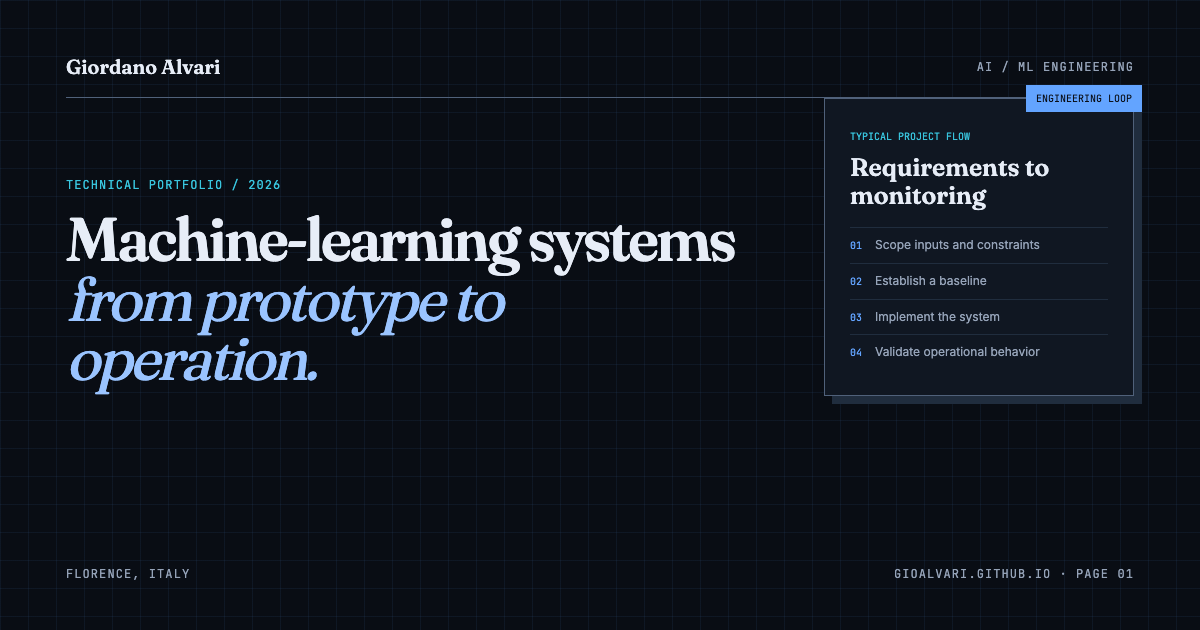
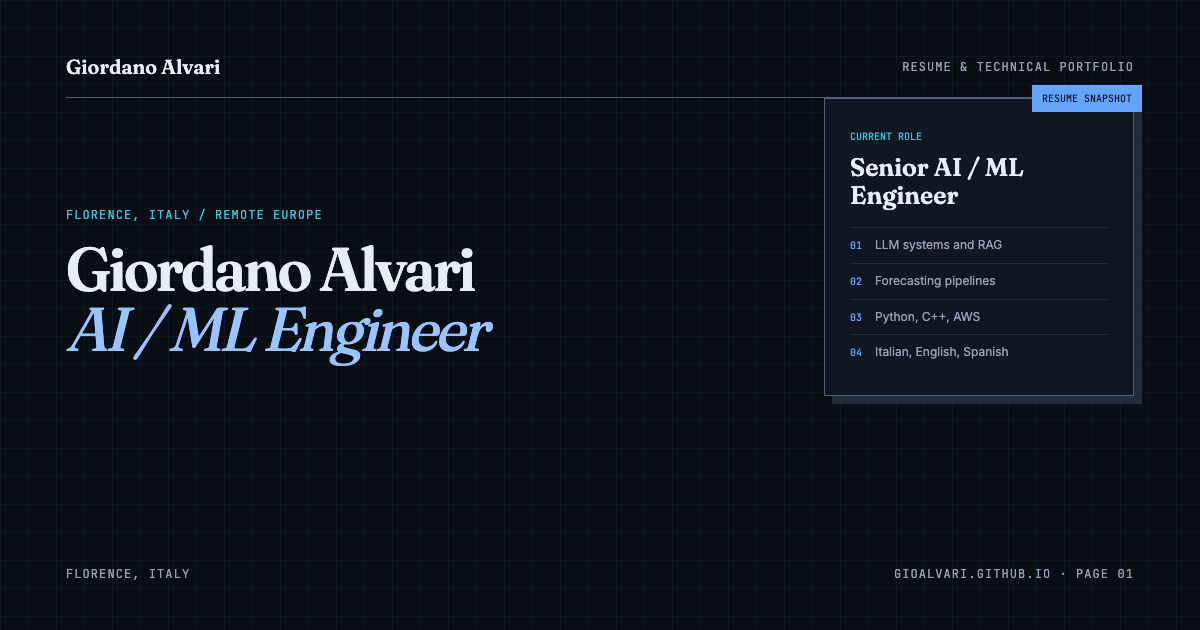
Make resume identity explicit in hero

diff --git a/style.css b/style.css
@@ -100,7 +100,7 @@ a:hover { color: var(--accent); }
 }
 
 .wordmark { color: var(--ink); text-decoration: none; display: flex; align-items: baseline; gap: .8rem; }
-.wordmark-name { font: 600 1.05rem/1 var(--serif); }
+.wordmark-name { font: 600 1.2rem/1 var(--serif); }
 .wordmark-edition { color: var(--ink-soft); font: .61rem/1 var(--mono); text-transform: uppercase; letter-spacing: .08em; }
 .site-header ul { list-style: none; display: flex; gap: clamp(.8rem, 3vw, 2rem); margin: 0; padding: 0; }
 .site-header li { display: flex; align-items: center; }
@@ -156,12 +156,13 @@ a:hover { color: var(--accent); }
 }
 .folio span { color: var(--rule); padding-inline: .35rem; }
 .hero h1 {
-  max-width: 13ch;
+  max-width: 15ch;
   margin: 1.4rem 0 1.8rem;
-  font: 600 clamp(3rem, 6.7vw, 5.65rem)/.98 var(--serif);
+  font: 600 clamp(3rem, 6.4vw, 5.45rem)/.98 var(--serif);
   letter-spacing: -.045em;
   text-wrap: balance;
 }
+.hero-name { color: var(--ink); }
 .hero h1 em {
   color: transparent;
   font-weight: 400;
@@ -174,7 +175,7 @@ a:hover { color: var(--accent); }
 .hero-links a { font: .69rem/1.4 var(--mono); text-transform: uppercase; letter-spacing: .04em; }
 .margin-note { max-width: 31rem; margin: 3rem 0 0; padding: .55rem 0 .55rem 1rem; border-left: 2px solid var(--accent); color: var(--accent-dark); font: .77rem/1.65 var(--mono); transform: rotate(-.45deg); }
 
-.method-card {
+.resume-card {
   --sheet-x: 50%;
   --sheet-y: 50%;
   position: relative;
@@ -184,12 +185,9 @@ a:hover { color: var(--accent); }
   box-shadow:
     .6rem .6rem 0 color-mix(in srgb, var(--rule-soft) 65%, transparent),
     0 1.2rem 4rem color-mix(in srgb, var(--accent) 8%, transparent);
-  transition: transform .2s ease-out, border-color .2s ease;
+  transition: border-color .2s ease, box-shadow .2s ease;
 }
-.has-motion .method-card {
-  transform: perspective(900px) rotateX(var(--card-rotate-x, 0deg)) rotateY(var(--card-rotate-y, 0deg));
-}
-.method-card::before, .experiment-sheet::before {
+.resume-card::before, .experiment-sheet::before {
   content: "";
   position: absolute;
   inset: 0;
@@ -199,9 +197,14 @@ a:hover { color: var(--accent); }
   background: radial-gradient(24rem circle at var(--sheet-x) var(--sheet-y), color-mix(in srgb, var(--teal) 8%, transparent), transparent 62%);
   transition: opacity .25s ease;
 }
-.method-card:hover::before, .experiment-sheet:hover::before { opacity: 1; }
-.method-card:hover { border-color: var(--accent); }
-.method-card > *, .experiment-sheet > * { position: relative; z-index: 1; }
+.resume-card:hover::before, .experiment-sheet:hover::before { opacity: 1; }
+.resume-card:hover {
+  border-color: var(--accent);
+  box-shadow:
+    .6rem .6rem 0 color-mix(in srgb, var(--accent) 16%, transparent),
+    0 1.4rem 4.5rem color-mix(in srgb, var(--accent) 12%, transparent);
+}
+.resume-card > *, .experiment-sheet > * { position: relative; z-index: 1; }
 .case-tab, .sheet-tab {
   position: absolute;
   right: -.55rem;
@@ -214,14 +217,15 @@ a:hover { color: var(--accent); }
   text-transform: uppercase;
   transform: rotate(1.5deg);
 }
-.method-heading { padding-bottom: 1.25rem; border-bottom: 1px solid var(--rule-soft); }
-.method-heading h2 { margin: .45rem 0 0; font: 600 1.7rem/1.15 var(--serif); }
-.method-card ol { list-style: none; margin: 0; padding: 0; }
-.method-card li { display: grid; grid-template-columns: 2.2rem 1fr; gap: 1rem; padding: 1rem 0; border-bottom: 1px solid var(--rule-soft); }
-.method-card li > span { padding-top: .25rem; color: var(--accent); font: .63rem/1 var(--mono); }
-.method-card strong { display: block; font: 600 1rem/1.2 var(--serif); }
-.method-card small { display: block; margin-top: .25rem; color: var(--ink-soft); font-size: .76rem; line-height: 1.5; }
-.method-loop { margin: 1.2rem 0 0; color: var(--ink-soft); font: .62rem/1.5 var(--mono); text-transform: uppercase; letter-spacing: .05em; }
+.resume-heading { padding-bottom: 1.25rem; border-bottom: 1px solid var(--rule-soft); }
+.resume-heading h2 { margin: .45rem 0 .35rem; font: 600 1.75rem/1.12 var(--serif); }
+.resume-heading > p:last-child { margin: 0; color: var(--ink-soft); font-size: .8rem; }
+.resume-card dl { margin: 0; }
+.resume-card dl div { display: grid; grid-template-columns: 6rem 1fr; gap: 1rem; padding: .9rem 0; border-bottom: 1px solid var(--rule-soft); }
+.resume-card dt { color: var(--accent); font: .61rem/1.5 var(--mono); text-transform: uppercase; }
+.resume-card dd { margin: 0; color: var(--ink-soft); font-size: .77rem; line-height: 1.5; }
+.resume-download { display: flex; justify-content: space-between; margin-top: 1.25rem; color: var(--ink); font: .69rem/1.5 var(--mono); text-decoration: none; text-transform: uppercase; letter-spacing: .04em; }
+.resume-download:hover { color: var(--accent); }
 .hero-footer { grid-column: 1 / -1; display: flex; justify-content: space-between; padding-top: 1.4rem; border-top: 1px solid var(--rule-soft); color: var(--ink-soft); font: .58rem/1 var(--mono); text-transform: uppercase; letter-spacing: .08em; }
 
 .chapter {
@@ -359,7 +363,7 @@ a:hover { color: var(--accent); }
 
 @media (max-width: 54rem) {
   .hero { grid-template-columns: 1fr; min-height: auto; }
-  .method-card { max-width: 38rem; }
+  .resume-card { max-width: 38rem; }
   .chapter-header { grid-template-columns: 3rem 1fr; }
   .chapter-header > p { grid-column: 2; }
   .work-entry { grid-template-columns: 5rem 1fr; }
@@ -399,7 +403,7 @@ a:hover { color: var(--accent); }
   body { font-size: 11pt; background: #fff; }
   .site-header, .reading-progress, .skip, .site-footer { display: none; }
   .hero { min-height: auto; display: block; }
-  .method-card { margin-top: 2rem; box-shadow: none; }
+  .resume-card { margin-top: 2rem; box-shadow: none; }
   .chapter { padding-block: 1.5rem; }
   .experiment-sheet, .project-small, .work-entry { break-inside: avoid; }
   .contact-sheet { color: #000; background: #fff; border-top: 1px solid #888; }
@@ -420,5 +424,5 @@ a:hover { color: var(--accent); }
   html { scroll-behavior: auto; }
   *, *::before, *::after { scroll-behavior: auto !important; transition: none !important; animation: none !important; }
   .has-motion .reveal { opacity: 1; transform: none; }
-  .method-card, .experiment-sheet, .work-entry { transform: none !important; }
+  .resume-card, .experiment-sheet, .work-entry { transform: none !important; }
 }

diff --git a/index.html b/index.html
@@ -3,7 +3,7 @@
 <head>
 <meta charset="utf-8">
 <meta name="viewport" content="width=device-width, initial-scale=1">
-<title>Giordano Alvari — AI / ML Engineer</title>
+<title>Giordano Alvari — AI / ML Engineer | Resume &amp; Portfolio</title>
 <meta name="description" content="AI and Machine Learning Engineer working on LLM systems, forecasting and applied machine learning. Based in Florence, available remotely across Europe.">
 <meta name="author" content="Giordano Alvari">
 <meta name="color-scheme" content="dark light">
@@ -12,7 +12,7 @@
 <link rel="canonical" href="https://gioalvari.github.io/">
 
 <meta property="og:type" content="profile">
-<meta property="og:title" content="Giordano Alvari — AI / ML Engineer">
+<meta property="og:title" content="Giordano Alvari — AI / ML Engineer | Resume &amp; Portfolio">
 <meta property="og:description" content="LLM systems, forecasting and applied machine learning — built with careful evaluation and practical engineering.">
 <meta property="og:url" content="https://gioalvari.github.io/">
 <meta property="og:image" content="https://gioalvari.github.io/og-2026-09.png">
@@ -65,7 +65,7 @@
   <nav class="wrap" aria-label="Primary">
     <a class="wordmark" href="#top" aria-label="Giordano Alvari — home">
       <span class="wordmark-name">Giordano Alvari</span>
-      <span class="wordmark-edition">AI / ML engineering</span>
+      <span class="wordmark-edition">Resume &amp; technical portfolio</span>
     </a>
     <ul>
       <li><a href="#practice">Practice</a></li>
@@ -80,12 +80,12 @@
 <main id="main">
   <section class="hero wrap" id="top">
     <div class="hero-copy">
-      <p class="folio">Technical portfolio <span>/</span> 2026</p>
-      <h1>Machine-learning systems<br><em>from prototype to operation.</em></h1>
+      <p class="folio">Resume &amp; technical portfolio <span>/</span> Florence, Italy</p>
+      <h1><span class="hero-name">Giordano Alvari</span><br><em>AI / ML Engineer</em></h1>
       <p class="lead">
         I design and implement LLM applications, retrieval systems and forecasting pipelines.
-        My work covers evaluation, APIs, deployment, observability and the data workflows around
-        the model.
+        My work covers backend services, evaluation, deployment, observability and the data
+        workflows around the model.
       </p>
       <ul class="hero-links">
         <li><a href="mailto:giordano.alvari@gmail.com">Email <span aria-hidden="true">↗</span></a></li>
@@ -93,22 +93,23 @@
         <li><a href="https://github.com/gioalvari" rel="me">GitHub <span aria-hidden="true">↗</span></a></li>
         <li><a href="giordano-alvari-cv.pdf">CV <span aria-hidden="true">↓</span></a></li>
       </ul>
-      <p class="margin-note">Current focus: LLM workflow evaluation, uncertainty-aware forecasting and reliable deployment.</p>
+      <p class="margin-note">Currently working on applied LLM systems and forecasting at Enel.</p>
     </div>
 
-    <aside class="method-card" aria-labelledby="method-title">
-      <span class="case-tab">Engineering loop</span>
-      <div class="method-heading">
-        <p class="kicker">Typical project flow</p>
-        <h2 id="method-title">From requirements to monitoring</h2>
+    <aside class="resume-card" aria-labelledby="resume-title">
+      <span class="case-tab">Resume snapshot</span>
+      <div class="resume-heading">
+        <p class="kicker">Current role</p>
+        <h2 id="resume-title">Senior AI / ML Engineer</h2>
+        <p>Enel · Florence / remote Europe</p>
       </div>
-      <ol>
-        <li><span>01</span><div><strong>Scope</strong><small>Define inputs, outputs, constraints and failure modes.</small></div></li>
-        <li><span>02</span><div><strong>Baseline</strong><small>Establish a measurable reference before adding complexity.</small></div></li>
-        <li><span>03</span><div><strong>Implement</strong><small>Build the service, data path and model integration.</small></div></li>
-        <li><span>04</span><div><strong>Validate</strong><small>Test quality, latency, cost and operational behavior.</small></div></li>
-      </ol>
-      <p class="method-loop">Requirements → baseline → implementation → evaluation → monitoring</p>
+      <dl>
+        <div><dt>Focus</dt><dd>LLM systems, RAG, forecasting</dd></div>
+        <div><dt>Engineering</dt><dd>Python, C++, APIs, AWS, Kubernetes</dd></div>
+        <div><dt>Languages</dt><dd>Italian, English, Spanish</dd></div>
+        <div><dt>Background</dt><dd>Computational biology</dd></div>
+      </dl>
+      <a class="resume-download" href="giordano-alvari-cv.pdf">Download one-page CV <span aria-hidden="true">↓</span></a>
     </aside>
 
     <div class="hero-footer" aria-hidden="true">

diff --git a/_og.html b/_og.html
@@ -9,10 +9,10 @@
 </style>
 </head>
 <body>
-<div class="top"><span class="name">Giordano Alvari</span><span class="edition">AI / ML engineering</span></div>
+<div class="top"><span class="name">Giordano Alvari</span><span class="edition">Resume &amp; technical portfolio</span></div>
 <div class="hero">
-  <div class="copy"><div class="folio">Technical portfolio / 2026</div><h1>Machine-learning systems<br><em>from prototype to operation.</em></h1></div>
-  <div class="method"><span class="tab">Engineering loop</span><small>Typical project flow</small><h2>Requirements to monitoring</h2><p><b>01</b>Scope inputs and constraints</p><p><b>02</b>Establish a baseline</p><p><b>03</b>Implement the system</p><p><b>04</b>Validate operational behavior</p></div>
+  <div class="copy"><div class="folio">Florence, Italy / Remote Europe</div><h1>Giordano Alvari<br><em>AI / ML Engineer</em></h1></div>
+  <div class="method"><span class="tab">Resume snapshot</span><small>Current role</small><h2>Senior AI / ML Engineer</h2><p><b>01</b>LLM systems and RAG</p><p><b>02</b>Forecasting pipelines</p><p><b>03</b>Python, C++, AWS</p><p><b>04</b>Italian, English, Spanish</p></div>
 </div>
 <div class="foot"><span>Florence, Italy</span><span>gioalvari.github.io · Page 01</span></div>
 </body>

diff --git a/site.js b/site.js
@@ -53,20 +53,11 @@ if (!reduceMotion && finePointer.matches) {
     hero.style.setProperty("--hero-y", `${event.clientY - bounds.top}px`);
   });
 
-  document.querySelectorAll(".method-card, .experiment-sheet").forEach((sheet) => {
+  document.querySelectorAll(".resume-card, .experiment-sheet").forEach((sheet) => {
     sheet.addEventListener("pointermove", (event) => {
       const bounds = sheet.getBoundingClientRect();
       sheet.style.setProperty("--sheet-x", `${event.clientX - bounds.left}px`);
       sheet.style.setProperty("--sheet-y", `${event.clientY - bounds.top}px`);
-      if (!sheet.classList.contains("method-card")) return;
-      const horizontal = (event.clientX - bounds.left) / bounds.width - 0.5;
-      const vertical = (event.clientY - bounds.top) / bounds.height - 0.5;
-      sheet.style.setProperty("--card-rotate-x", `${vertical * -2.2}deg`);
-      sheet.style.setProperty("--card-rotate-y", `${horizontal * 2.2}deg`);
-    });
-    sheet.addEventListener("pointerleave", () => {
-      sheet.style.removeProperty("--card-rotate-x");
-      sheet.style.removeProperty("--card-rotate-y");
     });
   });
 }
